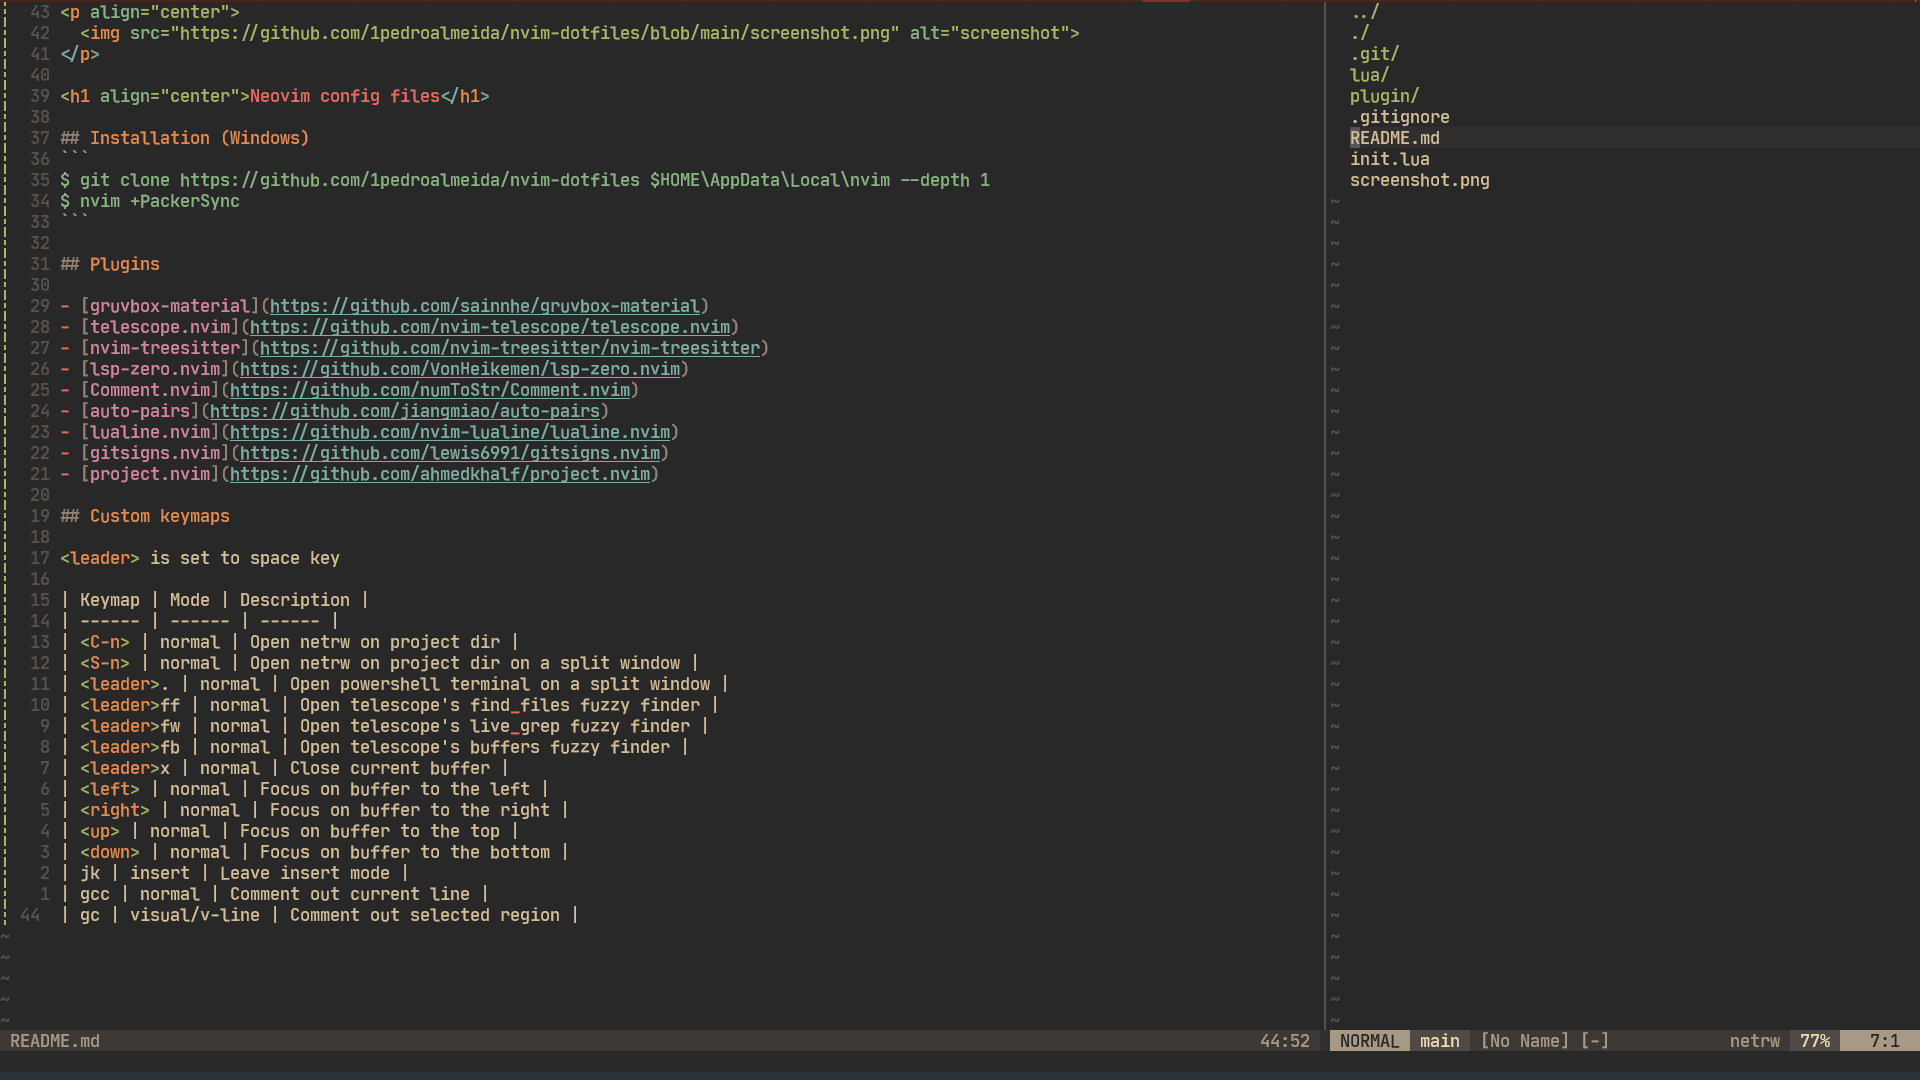
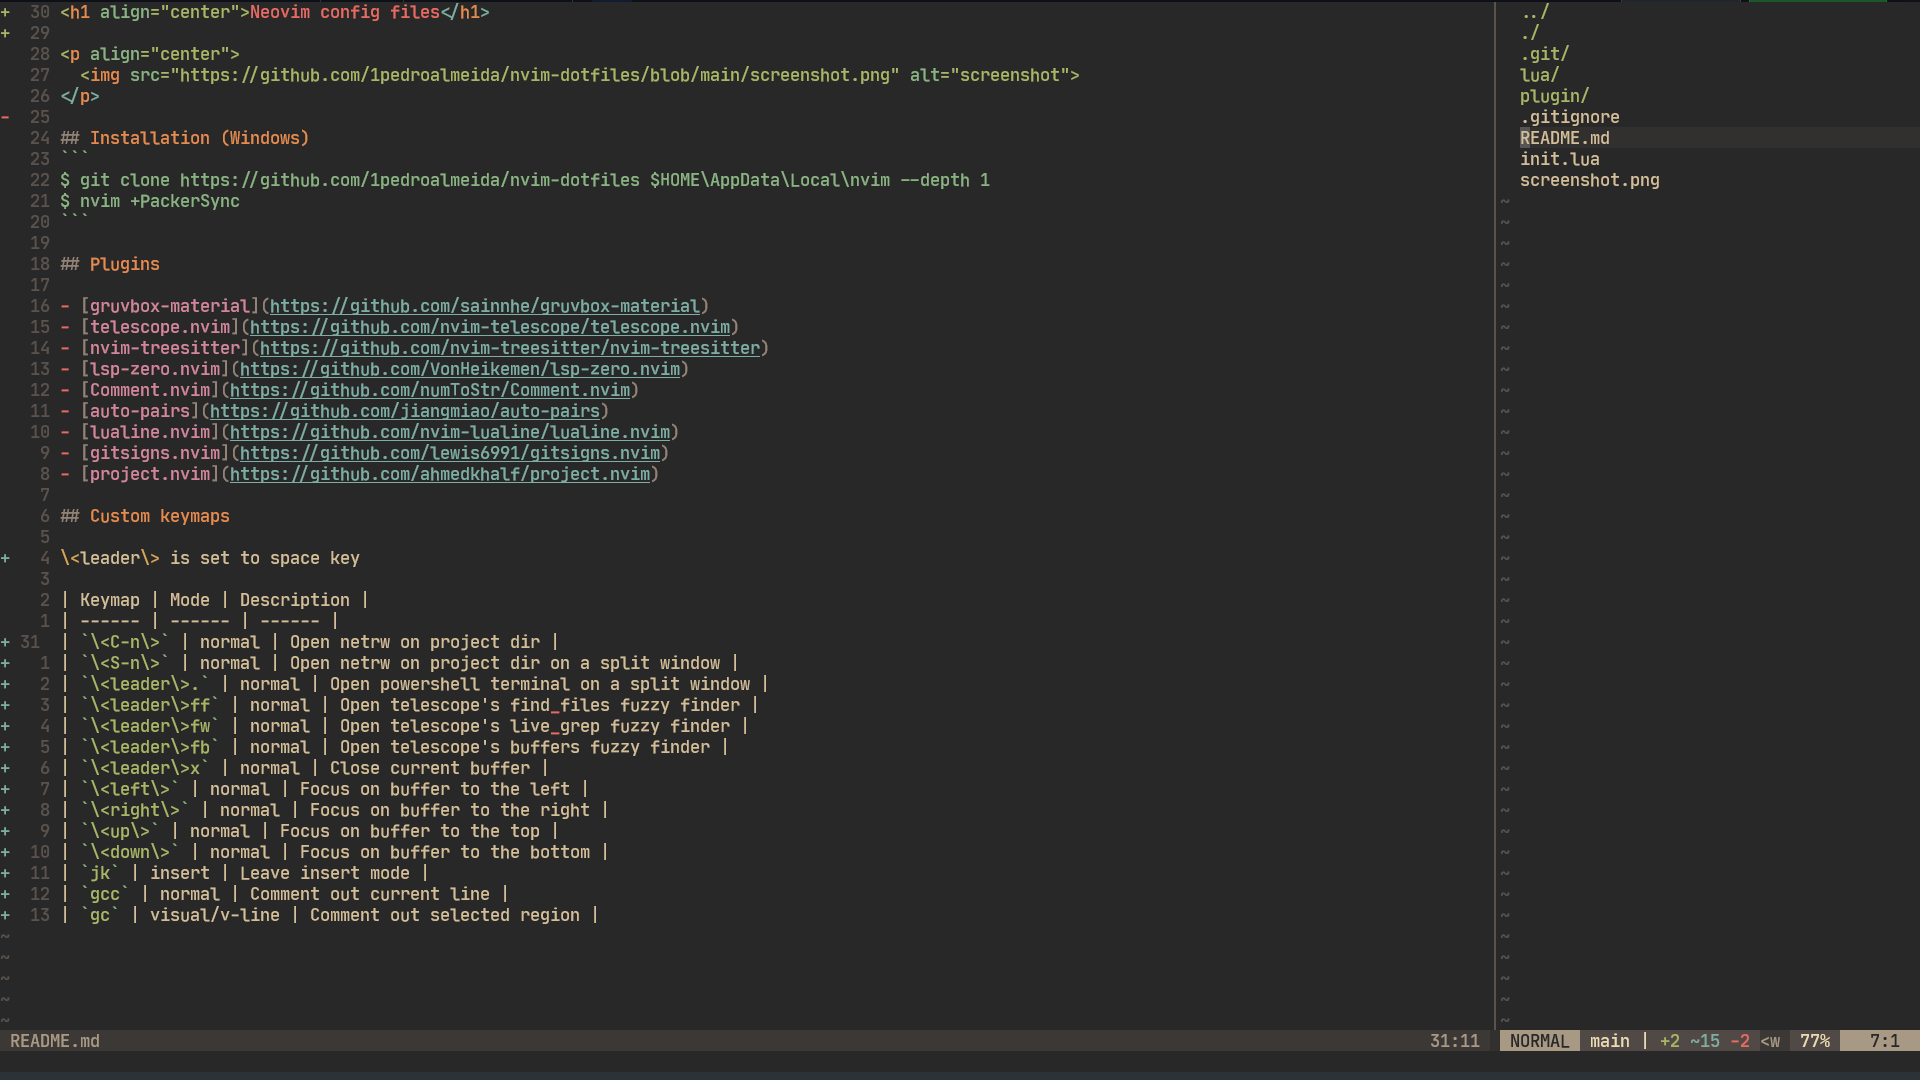
fix readme.md

diff --git a/README.md b/README.md
@@ -1,8 +1,8 @@
+<h1 align="center">Neovim config files</h1>
+
 <p align="center">
   <img src="https://github.com/1pedroalmeida/nvim-dotfiles/blob/main/screenshot.png" alt="screenshot">
 </p>
-
-<h1 align="center">Neovim config files</h1>
 
 ## Installation (Windows)
 ```
@@ -24,21 +24,21 @@ $ nvim +PackerSync
 
 ## Custom keymaps
 
-<leader> is set to space key
+\<leader\> is set to space key
 
 | Keymap | Mode | Description |
 | ------ | ------ | ------ |
-| <C-n> | normal | Open netrw on project dir |
-| <S-n> | normal | Open netrw on project dir on a split window |
-| <leader>. | normal | Open powershell terminal on a split window |
-| <leader>ff | normal | Open telescope's find_files fuzzy finder |
-| <leader>fw | normal | Open telescope's live_grep fuzzy finder |
-| <leader>fb | normal | Open telescope's buffers fuzzy finder |
-| <leader>x | normal | Close current buffer |
-| <left> | normal | Focus on buffer to the left |
-| <right> | normal | Focus on buffer to the right |
-| <up> | normal | Focus on buffer to the top |
-| <down> | normal | Focus on buffer to the bottom |
-| jk | insert | Leave insert mode |
-| gcc | normal | Comment out current line |
-| gc | visual/v-line | Comment out selected region |
+| `\<C-n\>` | normal | Open netrw on project dir |
+| `\<S-n\>` | normal | Open netrw on project dir on a split window |
+| `\<leader\>.` | normal | Open powershell terminal on a split window |
+| `\<leader\>ff` | normal | Open telescope's find_files fuzzy finder |
+| `\<leader\>fw` | normal | Open telescope's live_grep fuzzy finder |
+| `\<leader\>fb` | normal | Open telescope's buffers fuzzy finder |
+| `\<leader\>x` | normal | Close current buffer |
+| `\<left\>` | normal | Focus on buffer to the left |
+| `\<right\>` | normal | Focus on buffer to the right |
+| `\<up\>` | normal | Focus on buffer to the top |
+| `\<down\>` | normal | Focus on buffer to the bottom |
+| `jk` | insert | Leave insert mode |
+| `gcc` | normal | Comment out current line |
+| `gc` | visual/v-line | Comment out selected region |
